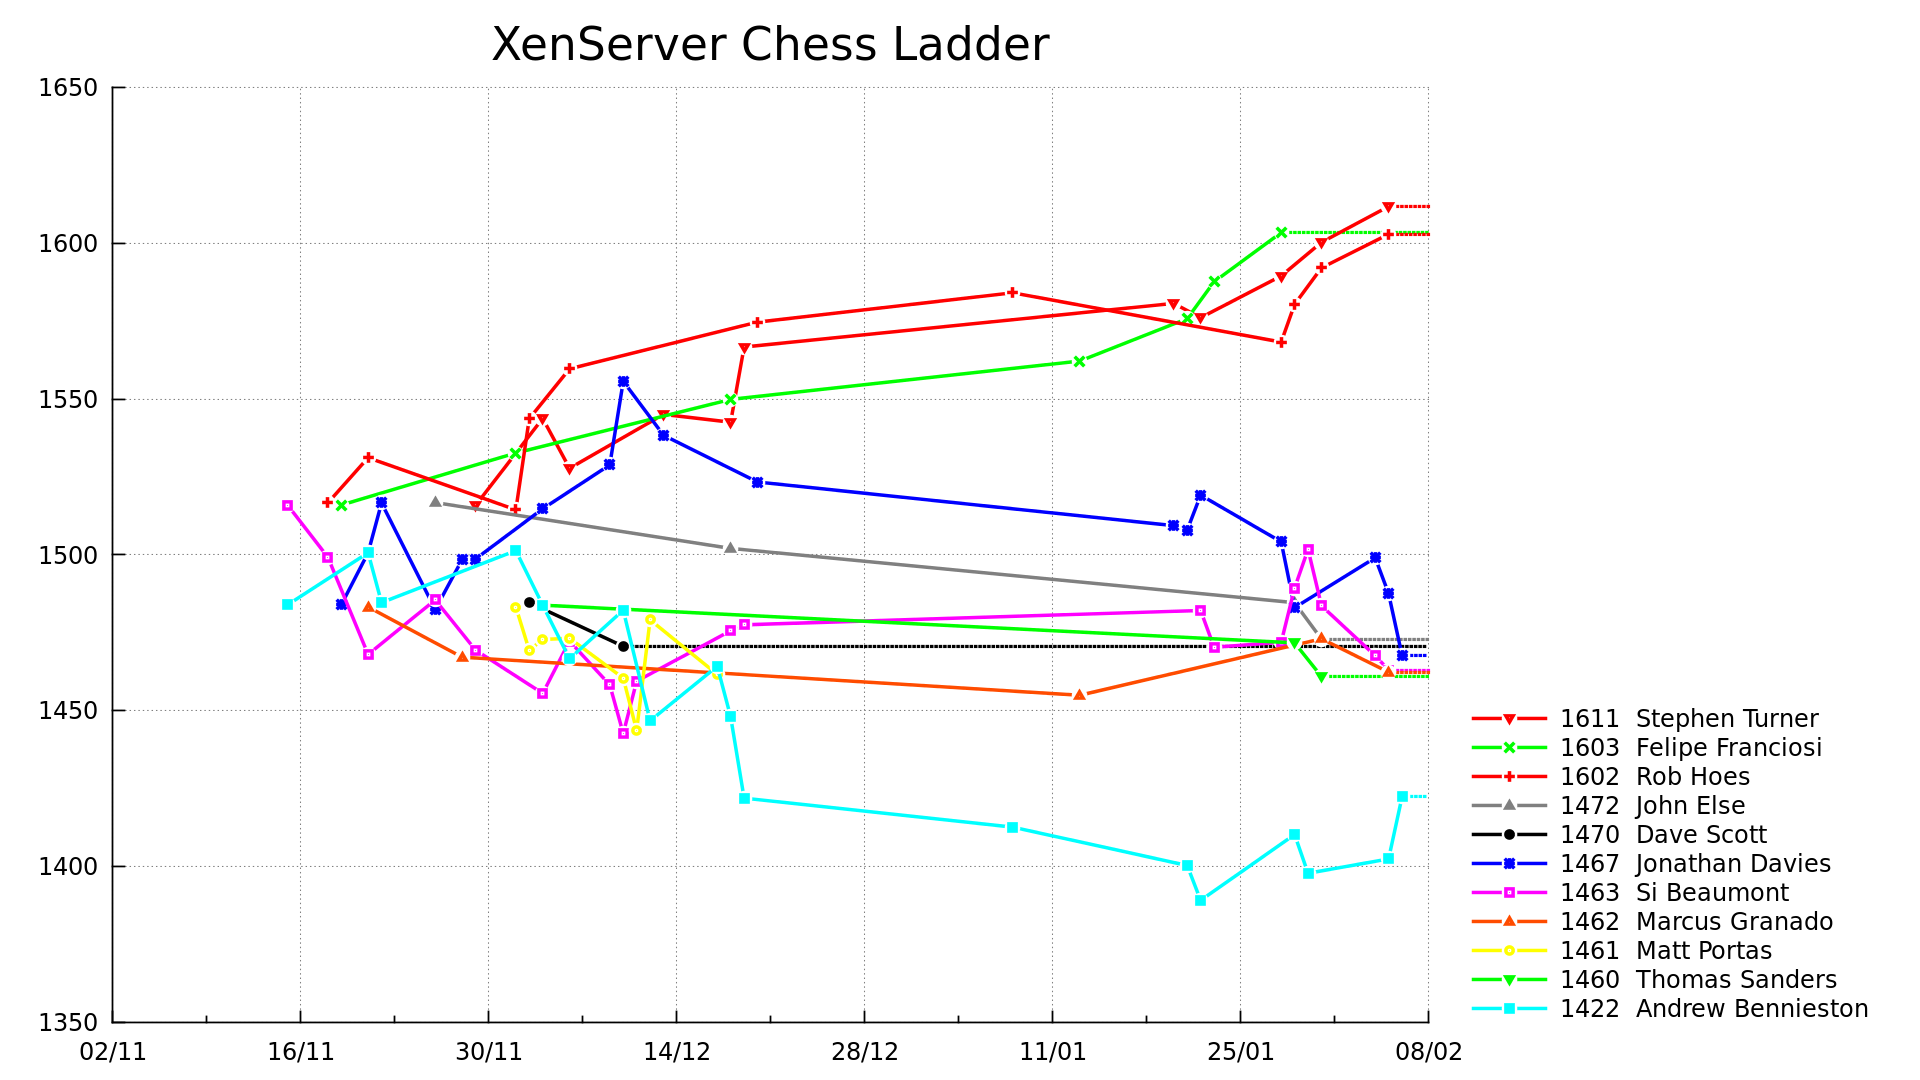
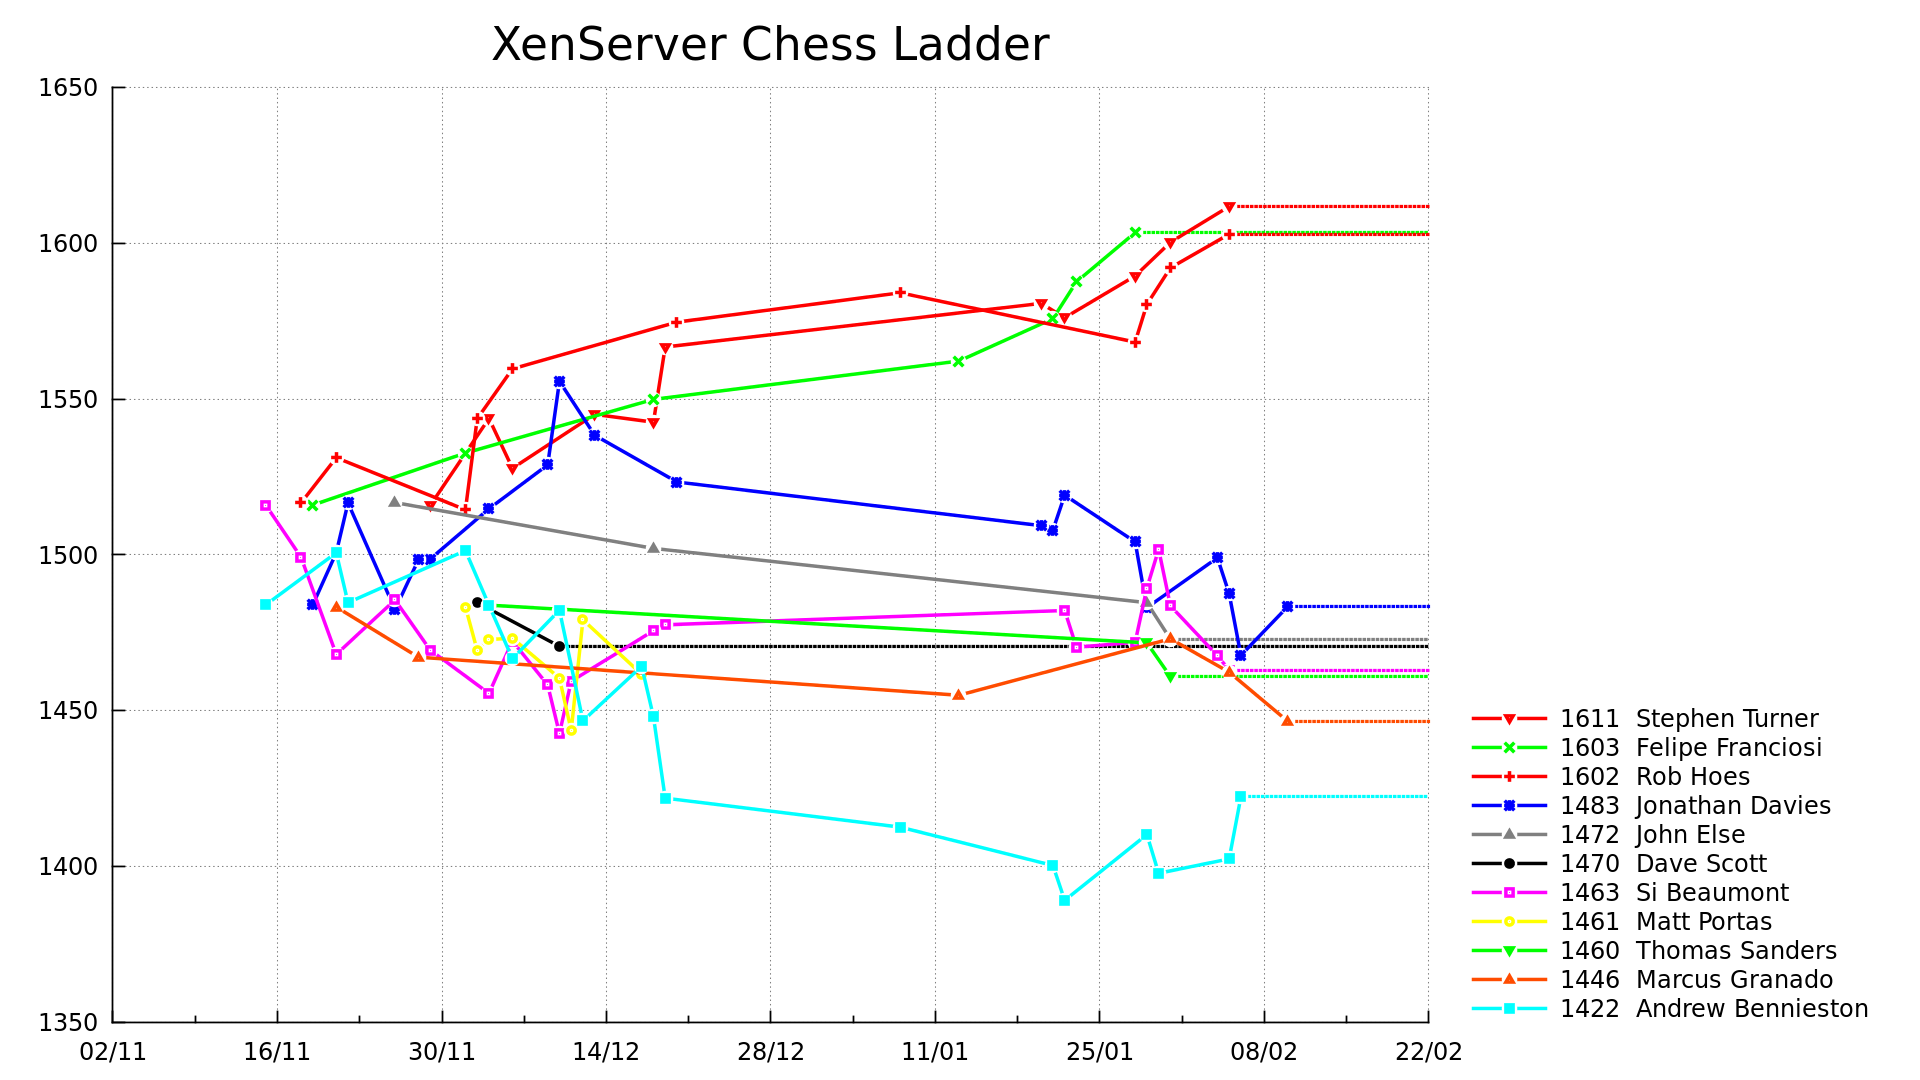
Travis build 117 pushed to gh-pages

diff --git a/index.md b/index.md
@@ -6,13 +6,13 @@ layout: default
      1.  Stephen Turner                     1611  (11.5 / 14)
      2.  Felipe Franciosi                   1603  (7 / 7)
      3.  Rob Hoes                           1602  (10 / 12)
-     4.  John Else                          1472  (1 / 4)
-     5.  Dave Scott                         1470  (0 / 2)
-     6.  Jonathan Davies                    1467  (11.5 / 24)
+     4.  Jonathan Davies                    1483  (12.5 / 25)
+     5.  John Else                          1472  (1 / 4)
+     6.  Dave Scott                         1470  (0 / 2)
      7.  Si Beaumont                        1463  (10 / 23)
-     8.  Marcus Granado                     1462  (1 / 5)
-     9.  Matt Portas                     ☠  1461  (5 / 13)
-    10.  Thomas Sanders                     1460  (0 / 3)
+     8.  Matt Portas                     ☠  1461  (5 / 13)
+     9.  Thomas Sanders                     1460  (0 / 3)
+    10.  Marcus Granado                     1446  (1 / 6)
     11.  Andrew Bennieston                  1422  (8 / 23)
 ### Suggested games (least played)
           Thomas Sanders - Si Beaumont
@@ -21,6 +21,7 @@ layout: default
               Dave Scott - Andrew Bennieston
                 Rob Hoes - Jonathan Davies
 ### Games
+    2014-02-10:       Marcus Granado - Jonathan Davies           0 - 1
     2014-02-06:    Andrew Bennieston - Jonathan Davies           1 - 0
     2014-02-05:          Si Beaumont - Andrew Bennieston         1 - 0
     2014-02-05:    Andrew Bennieston - Si Beaumont               1 - 0
